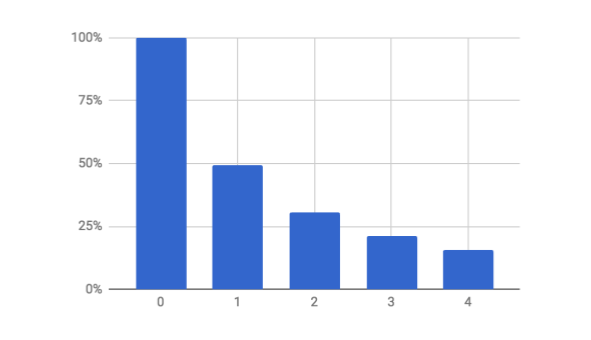
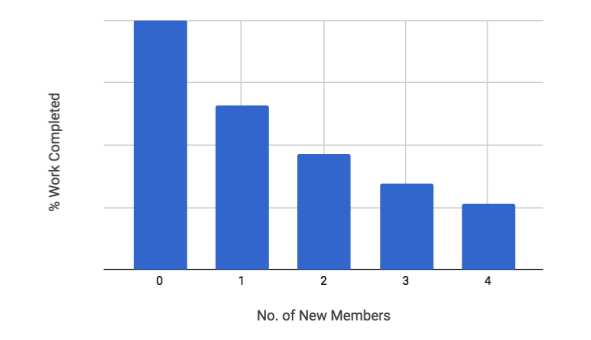
Fixes to Brooks' Law post

diff --git a/_posts/2017-11-27-visualizing-brooks-law.md b/_posts/2017-11-27-visualizing-brooks-law.md
@@ -1,7 +1,7 @@
 ---
 layout: post
 title: Visualizing Brooks' Law
-comments: false
+comments: true
 categories: software engineering, project management, brooks law
 ---
 
@@ -9,19 +9,22 @@ categories: software engineering, project management, brooks law
 <br>-- [Fred Brooks](https://en.wikipedia.org/wiki/Fred_Brooks),
 [The Mythical Man-Month](https://read.amazon.com/kp/embed?asin=B00B8USS14&preview=newtab&linkCode=kpe&ref_=cm_sw_r_kb_dp_yJ-gAb29R21FJ)
 
-If you're like me, you'll find it hard to understand and, therefore,
-manage the effects of Brooks' Law unless there's a model that visualizes
-it for you. In this blog post, I attempt to provide such a visual model.
+I hear this truism regularly and I can also feel its effects whenever
+new members join a team I'm in but I've never really given it much
+thought until now. In this blog post, I'll attempt to dissect and
+visualize Brooks' Law to find out what is it exactly about adding
+new team members that negatively affects short-term team progress.
 
-## The Components of Work
+
+## The Components of Team Progress
 
 We can compute the relative progress of a team as follows:
 
 > Percent Work Complete = (Completed Work) / (Total Work)
 
-That's easy enough to grasp but there are a few things to consider to
-obtain the dividend and divisor so let's break this equation down in
-the next couple of sections.
+That's easy enough to grasp but there are a few things to consider when
+obtaining the dividend and divisor so let's break this equation down.
+
 
 ## Completed Work
 
@@ -79,16 +82,15 @@ Remember that the formula to compute the edges of a complete graph is
 
 > Edges = Nodes * (Nodes - 1) / 2
 
-Using the formula on our above example, we get 10 which is exactly equal
-to the number of edges depicted in the diagram.
-
-If we were to add 1 node to the above graph, that would add an additional
-5 edges to the graph since the existing 5 nodes would have to connect to
-this new one. Indeed, if we apply the same formula, we would get:
+Using the formula on our above diagram, we get 10 which is exactly equal
+to the number of edges depicted. If we were to add 1 node to the above
+graph, that would add an additional 5 edges to the graph since the
+existing 5 nodes would have to connect to this new one. Indeed, if we
+apply the same formula, we would get:
 
 > 6 * (6 - 1) / 2 = 15
 
-Remember though that we're only interested in the *Additional* edges
+Remember though that we're only interested in the **Additional** edges
 created by adding a new node. To get that, all we have to do is:
 
 > Additional Edges = Total Edges - Original Edges
@@ -111,43 +113,43 @@ by Gerald M. Weinberg in his book [Quality Software Management: Systems Thinking
 
 ![Diagram of Effects: Percent Work Completed](/assets/images/diagram-of-effects-percent-work-completed.png)
 
-From this graphic, we can deduce a few things:
+From this graphic and our computations, we can deduce a few things:
 
-1. Adding new members increases the load on the team which reduces
+1. Adding new members increases the training load on the team which reduces
    the completed work
-1. Adding new members also increases additional coordination which
-   increases the total work
 1. A reduction in the completed work also results in a reduction of
    the % work completed
+1. Adding new members increases additional coordination which
+   increases the total work
 1. An increase in total work reduces the % work completed
-
-Based on the computation of each metric, we can tell right away that
-"Additional Coordination" will have the biggest impact on % Work Completed
-but it helps to present the effect graphically:
+1. "Additional Coordination," if unmanaged, can potentially have the
+   biggest effect on team progress because of its quadratic nature.
 
 
 ![Percent Work Completed](/assets/images/percent-work-completed.png)
 <center>Scale of Additional Coordination work item was multipled by 10
-to emphasize its non-linear relationship with % Work Completed</center>
+in this chart to emphasize its non-linear effect on team progress</center>
 
 <p>&nbsp;</p>
+
 
 ## Parting Thoughts
 
 The point of this article was to show how increasing the number of members
-can affect a team's progress. From what we've seen, the training load on
-the team is not as big of a factor as the additional coordination needed.
+can affect a team's progress. From what we've seen, Additional Coordination
+Needed has the biggest effect on progress due to its quadratic nature.
 
 I'll leave you now with a few questions as an exercise:
 
-1. How should you control Additional Coordination such that it minimizes its
-   effect on % Work Completed?
+1. How can you minimize the effects of Additional Coordination?
 1. Can you utilize CI/CD as a minimization tool?
 
-You may already have answers to these but if you want to get more insights,
-I recommend the following resources:
+Feel free to share your thoughts in the comments section below.
 
 
+# Further Reading
+
+* [Brooks' Law](https://en.wikipedia.org/wiki/Brooks%27s_law)
 * [The Mythical Man-Month](https://read.amazon.com/kp/embed?asin=B00B8USS14&preview=newtab&linkCode=kpe&ref_=cm_sw_r_kb_dp_yJ-gAb29R21FJ)
   by Fred Brooks
 * [Quality Software Management: Systems Thinking](http://a.co/1R0v4KB) by Gerald M. Weinberg
